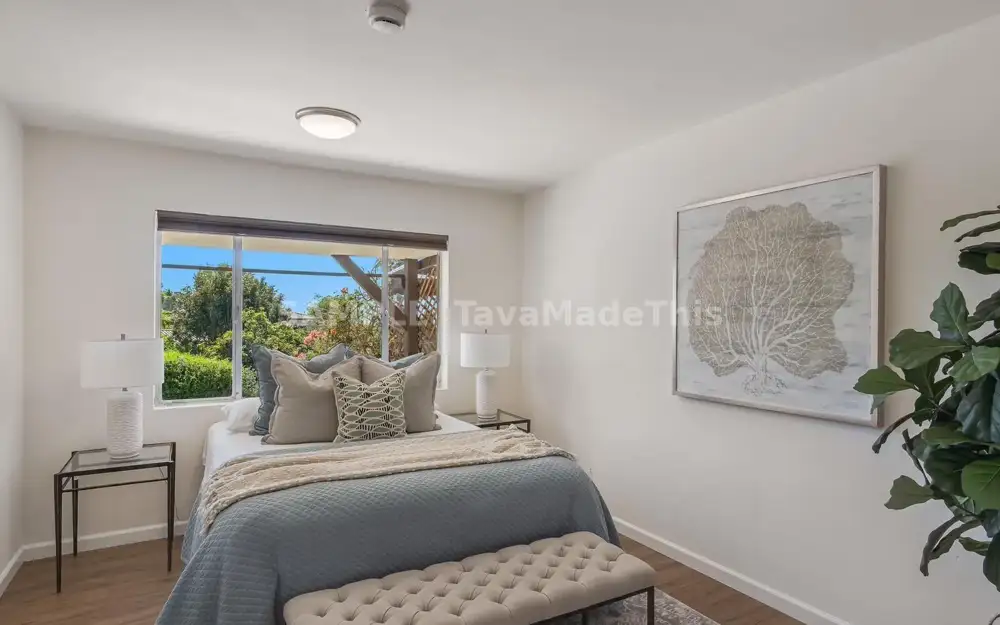
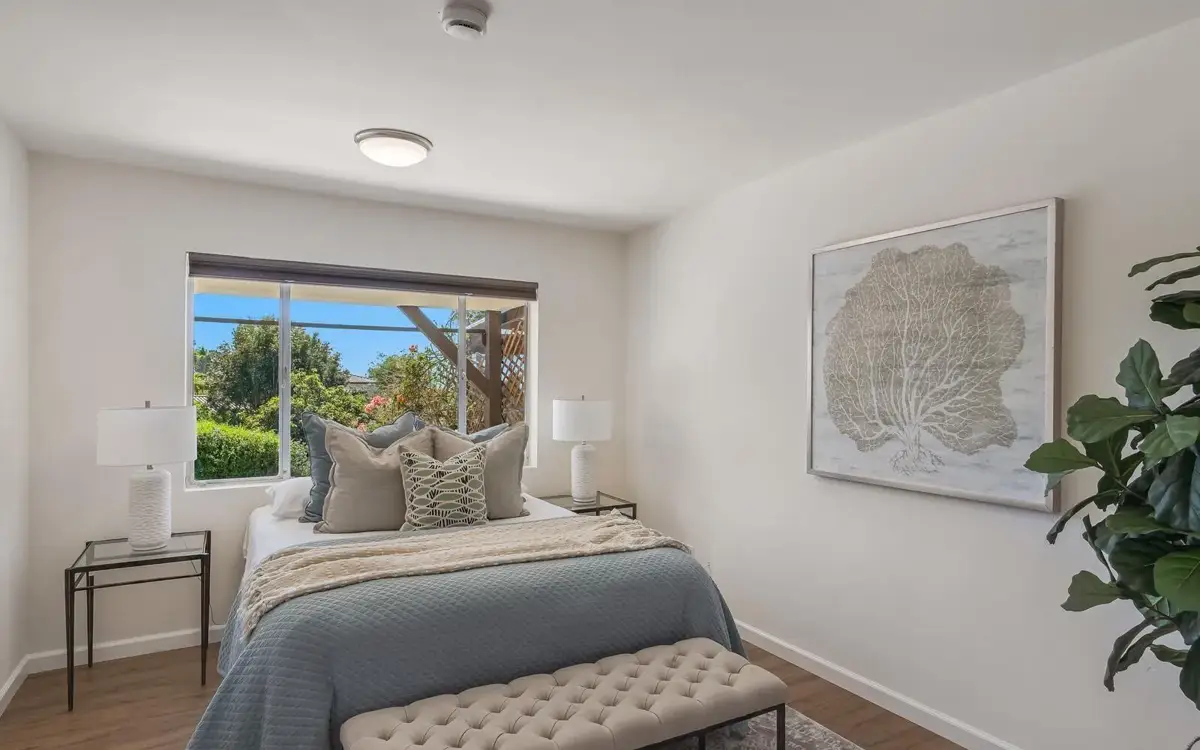
Solana Dr sample: draggable day/night slider with intro, 4K cover, themes, clearer upgrade message
Claude-Session: https://claude.ai/code/session_01E3onAEPM91wKopdy5sCsBR

Changed region(s): [[0.279, 0.456, 0.434, 0.5472], [0.682, 0.4864, 0.744, 0.5168]]

diff --git a/c/solana-k7m2qd/index.html b/c/solana-k7m2qd/index.html
@@ -6,94 +6,174 @@
 <title>1117 Solana Dr | Sample Listing Page</title>
 <meta name="robots" content="noindex, nofollow, noarchive">
 <meta name="description" content="A free sample listing page for 1117 Solana Dr, Del Mar, by TavaMadeThis.">
-<meta name="theme-color" content="#F5F0E7">
+<meta name="theme-color" content="#14110D" id="tc">
 <link rel="icon" type="image/png" sizes="32x32" href="/img/icon-32.png?v=2">
 <link rel="preload" href="/fonts/instrument-serif-normal-3.woff2" as="font" type="font/woff2" crossorigin>
 <link rel="preload" href="/fonts/inter-normal-4.woff2" as="font" type="font/woff2" crossorigin>
+<link rel="preload" as="image" href="img/hero-1600.webp" imagesrcset="img/hero-1600.webp 1600w, img/hero-2560.webp 2560w, img/hero-3840.webp 3840w" imagesizes="100vw">
 <style>
 @font-face{font-family:'Instrument Serif';font-style:normal;font-weight:400;font-display:swap;src:url(/fonts/instrument-serif-normal-3.woff2) format('woff2')}
 @font-face{font-family:'Instrument Serif';font-style:italic;font-weight:400;font-display:swap;src:url(/fonts/instrument-serif-italic-2.woff2) format('woff2')}
 @font-face{font-family:'Inter';font-style:normal;font-weight:300 600;font-display:swap;src:url(/fonts/inter-normal-4.woff2) format('woff2')}
-:root{--cream:#F5F0E7;--paper:#FBF8F2;--ink:#221F1A;--mut:#776E61;--line:rgba(34,31,26,.12);--wood:#A9743B;--night:#0E1522;--serif:'Instrument Serif',Georgia,serif;--sans:Inter,system-ui,-apple-system,sans-serif;--pad:clamp(20px,5vw,72px)}
+:root{--cream:#F5F0E7;--paper:#FBF8F2;--ink:#1D1A15;--mut:#7A7164;--body:#51493E;--line:rgba(29,26,21,.12);--wood:#A9743B;--gold:#D4A468;--night:#0D1420;--deep:#14110D;--deep2:#2A231A;--ondeep:#F5F0E7;--hw:400;--hls:-.015em;--serif:'Instrument Serif',Georgia,serif;--sans:Inter,system-ui,-apple-system,sans-serif;--pad:clamp(20px,5vw,72px);--ease:cubic-bezier(.2,.8,.2,1)}
 *{box-sizing:border-box}
-html{background:var(--cream);-webkit-text-size-adjust:100%}
+html{background:var(--cream);-webkit-text-size-adjust:100%;scroll-behavior:smooth}
+body,.sample,.hero,.facts,.tour,.foot,.up,.dn,.pill,.how,.cmp .tag,.nav a.cta{transition:background-color .5s var(--ease),color .5s var(--ease),border-color .5s var(--ease)}
 body{margin:0;background:var(--cream);color:var(--ink);font:400 16px/1.6 var(--sans);-webkit-font-smoothing:antialiased;overflow-x:clip}
-img,canvas{display:block;max-width:100%;-webkit-user-drag:none;user-select:none;-webkit-user-select:none;-webkit-touch-callout:none}
-h1,h2{font-family:var(--serif);font-weight:400;letter-spacing:-.015em;margin:0}
+img{display:block;max-width:100%;-webkit-user-drag:none;user-select:none;-webkit-user-select:none;-webkit-touch-callout:none}
+h1,h2,h3,.mark,.facts b{font-family:var(--serif);font-weight:var(--hw);letter-spacing:var(--hls);margin:0}
 a{color:inherit}
 .wrap{max-width:1180px;margin:0 auto;padding:0 var(--pad)}
-.sample{background:var(--ink);color:#E9E2D5;font:400 12.5px/1.45 var(--sans);text-align:center;padding:10px var(--pad)}
+:focus-visible{outline:2px solid var(--gold);outline-offset:3px}
+
+/* top notice + nav */
+.sample{background:var(--deep);color:var(--ondeep);font:400 12.5px/1.45 var(--sans);text-align:center;padding:10px var(--pad)}
 .sample b{font-weight:500;color:#fff}
-.hero{position:relative;background:var(--night);color:#fff}
-.hero img{width:100%;height:min(76vh,720px);object-fit:cover}
-.hero .cap{position:absolute;left:0;right:0;bottom:0;padding:90px 0 36px;background:linear-gradient(transparent,rgba(10,12,16,.72))}
-.hero h1{font-size:clamp(40px,7vw,92px);line-height:1}
-.hero p{margin:10px 0 0;font-size:15px;opacity:.85}
-.facts{display:grid;grid-template-columns:repeat(4,1fr);border-bottom:1px solid var(--line);background:var(--paper)}
-.facts div{padding:22px var(--pad) 20px;border-right:1px solid var(--line)}
-.facts div:last-child{border-right:0}
-.facts b{display:block;font:400 clamp(26px,3.4vw,40px)/1 var(--serif)}
-.facts span{display:block;margin-top:6px;font:500 11px/1 var(--sans);letter-spacing:.2em;text-transform:uppercase;color:var(--mut)}
-section{padding:clamp(56px,9vw,110px) 0}
-.eyebrow{margin:0 0 14px;font:500 11px/1 var(--sans);letter-spacing:.24em;text-transform:uppercase;color:var(--mut)}
-h2{font-size:clamp(34px,4.6vw,58px);line-height:1.04}
+.nav{position:absolute;left:0;right:0;top:38px;z-index:5;color:#fff}
+.nav .wrap{display:flex;align-items:center;justify-content:space-between;height:72px}
+.nav .mark{font-size:22px;line-height:1}
+.nav a.cta{display:inline-flex;align-items:center;min-height:40px;padding:0 20px;border:1px solid rgba(255,255,255,.55);border-radius:999px;text-decoration:none;font:500 13px/1 var(--sans);letter-spacing:.02em;backdrop-filter:blur(8px);-webkit-backdrop-filter:blur(8px);background:rgba(255,255,255,.08);transition:background .3s,color .3s}
+.nav a.cta:hover{background:#fff;color:var(--ink)}
+
+/* hero */
+.hero{position:relative;background:#0b0d11;color:#fff;overflow:hidden}
+.hero img{width:100%;height:min(86vh,820px);min-height:520px;object-fit:cover;transform:scale(1.04);animation:settle 2.4s var(--ease) forwards}
+@keyframes settle{to{transform:scale(1)}}
+.hero::after{content:"";position:absolute;inset:0;background:linear-gradient(180deg,rgba(8,10,14,.45) 0,rgba(8,10,14,0) 26%,rgba(8,10,14,0) 52%,rgba(8,10,14,.82) 100%);pointer-events:none}
+.hero .cap{position:absolute;left:0;right:0;bottom:0;z-index:2;padding-bottom:clamp(34px,6vw,64px)}
+.pill{display:inline-flex;align-items:center;gap:8px;font:500 11px/1 var(--sans);letter-spacing:.22em;text-transform:uppercase;padding:9px 14px;border:1px solid rgba(255,255,255,.4);border-radius:999px;background:rgba(255,255,255,.08);backdrop-filter:blur(8px);-webkit-backdrop-filter:blur(8px)}
+.pill i{width:7px;height:7px;border-radius:50%;background:#7ed39a;box-shadow:0 0 0 4px rgba(126,211,154,.22)}
+.hero h1{font-size:clamp(46px,8vw,112px);line-height:.96;margin:18px 0 0}
+.hero p{margin:14px 0 0;font-size:clamp(14px,1.5vw,17px);color:rgba(255,255,255,.86);max-width:56ch}
+.hero .cap > .wrap > *{opacity:0;transform:translateY(14px);animation:rise .9s var(--ease) forwards}
+.hero .cap > .wrap > *:nth-child(1){animation-delay:.2s}.hero .cap > .wrap > *:nth-child(2){animation-delay:.35s}.hero .cap > .wrap > *:nth-child(3){animation-delay:.5s}
+@keyframes rise{to{opacity:1;transform:none}}
+
+/* facts */
+.facts{background:var(--paper);border-bottom:1px solid var(--line)}
+.facts .wrap{display:grid;grid-template-columns:repeat(4,1fr)}
+.facts div{padding:28px 0 26px;padding-left:clamp(0px,2vw,26px);border-left:1px solid var(--line)}
+.facts div:first-child{border-left:0;padding-left:0}
+.facts b{display:block;font:400 clamp(28px,3.6vw,46px)/1 var(--serif)}
+.facts span{display:block;margin-top:9px;font:500 11px/1 var(--sans);letter-spacing:.2em;text-transform:uppercase;color:var(--mut)}
+
+section{padding:clamp(60px,9vw,120px) 0}
+.eyebrow{margin:0 0 16px;display:flex;align-items:center;gap:12px;font:500 11px/1 var(--sans);letter-spacing:.24em;text-transform:uppercase;color:var(--mut)}
+.eyebrow::before{content:"";width:28px;height:1px;background:var(--wood)}
+h2{font-size:clamp(36px,5vw,66px);line-height:1.02}
 h2 em{font-style:italic;color:var(--wood)}
-.lead{max-width:60ch;color:#4d463c;margin:18px 0 0}
-/* day to dusk scroll */
-.dd{height:240vh;padding:0;position:relative;background:var(--night);color:#fff}
-.dd .stick{position:sticky;top:0;height:100vh;display:flex;flex-direction:column;justify-content:center;padding:0 var(--pad)}
-.dd canvas{width:100%;max-width:1180px;margin:0 auto;aspect-ratio:16/9;background:#000;border-radius:6px}
-.dd .t{max-width:1180px;width:100%;margin:0 auto 18px;display:flex;justify-content:space-between;align-items:flex-end;gap:16px}
-.dd h2{font-size:clamp(28px,4vw,48px)}
-.dd small{font:500 11px/1.3 var(--sans);letter-spacing:.2em;text-transform:uppercase;opacity:.7;text-align:right}
-.gal{display:grid;grid-template-columns:repeat(12,1fr);gap:12px;margin-top:34px}
-.gal figure{margin:0;position:relative;overflow:hidden;border-radius:4px;background:var(--line)}
-.gal img{width:100%;height:100%;object-fit:cover;aspect-ratio:8/5;pointer-events:none}
-.gal .a{grid-column:span 7}.gal .b{grid-column:span 5}.gal .c{grid-column:span 5}.gal .d{grid-column:span 7}
-.gal .lock{position:relative;grid-column:span 12;border:1px dashed rgba(34,31,26,.3);border-radius:4px;padding:26px;text-align:center;color:var(--mut);font-size:14px;background:var(--paper)}
-.about{display:grid;grid-template-columns:1.1fr .9fr;gap:clamp(28px,5vw,72px);align-items:start}
+.lead{max-width:58ch;color:var(--body);margin:20px 0 0;font-size:17px}
+.about{display:grid;grid-template-columns:1.1fr .9fr;gap:clamp(30px,6vw,90px);align-items:start}
 .spec{margin:0;padding:0;list-style:none;border-top:1px solid var(--line)}
-.spec li{display:flex;justify-content:space-between;gap:16px;padding:13px 0;border-bottom:1px solid var(--line);font-size:15px}
+.spec li{display:flex;justify-content:space-between;gap:16px;padding:15px 0;border-bottom:1px solid var(--line);font-size:15px}
 .spec li span:first-child{color:var(--mut)}
-.tour{background:var(--ink);color:#F5F0E7}
-.tour h2 em{color:#C99A5E}
-.tour p{color:#cfc7b8}
-.btn{display:inline-flex;align-items:center;justify-content:center;min-height:48px;padding:0 26px;border-radius:999px;background:#F5F0E7;color:var(--ink);text-decoration:none;font:500 14px/1 var(--sans);margin-top:22px}
-.foot{padding:34px 0 46px;font-size:12.5px;color:var(--mut)}
-.foot p{margin:0 0 8px;max-width:78ch}
+.spec li span:last-child{text-align:right}
+
+/* day-night slider */
+.dn{background:var(--night);color:#fff}
+.dn h2 em{color:var(--gold)}
+.dn .eyebrow{color:#a9b2c2}
+.dn .eyebrow::before{background:var(--gold)}
+.dn .head{display:flex;justify-content:space-between;align-items:flex-end;gap:24px;flex-wrap:wrap;margin-bottom:30px}
+.how{display:inline-flex;align-items:center;gap:10px;font:500 13px/1.3 var(--sans);color:#d9dfeb;padding:11px 16px;border-radius:999px;background:rgba(255,255,255,.07);border:1px solid rgba(255,255,255,.16)}
+.how svg{flex:none}
+.cmp{position:relative;aspect-ratio:16/9;border-radius:10px;overflow:hidden;background:#000;box-shadow:0 40px 90px -30px rgba(0,0,0,.7);cursor:ew-resize;touch-action:pan-y;user-select:none;-webkit-user-select:none}
+.cmp img{position:absolute;inset:0;width:100%;height:100%;object-fit:cover;pointer-events:none}
+.cmp .night{clip-path:inset(0 0 0 var(--p,50%))}
+.cmp .tag{position:absolute;bottom:16px;z-index:2;font:500 11px/1 var(--sans);letter-spacing:.2em;text-transform:uppercase;padding:9px 13px;border-radius:999px;background:rgba(10,12,16,.55);color:#fff;backdrop-filter:blur(6px);-webkit-backdrop-filter:blur(6px);pointer-events:none}
+.cmp .tag.l{left:16px}.cmp .tag.r{right:16px}
+.cmp .bar{position:absolute;top:0;bottom:0;left:var(--p,50%);width:2px;margin-left:-1px;background:#fff;box-shadow:0 0 0 1px rgba(0,0,0,.12),0 0 26px rgba(255,255,255,.55);z-index:3;pointer-events:none}
+.cmp .knob{position:absolute;top:50%;left:var(--p,50%);width:58px;height:58px;margin:-29px 0 0 -29px;border-radius:50%;background:#fff;color:var(--ink);display:grid;place-items:center;z-index:4;box-shadow:0 10px 28px rgba(0,0,0,.4);cursor:grab;outline-offset:6px}
+.cmp .knob:active{cursor:grabbing}
+.cmp .knob svg{display:block}
+.cmp .knob::before{content:"";position:absolute;inset:-9px;border-radius:50%;border:2px solid rgba(255,255,255,.7);opacity:0}
+.cmp.hint .knob::before{animation:ring 1.8s ease-out infinite}
+@keyframes ring{0%{transform:scale(.8);opacity:.9}100%{transform:scale(1.5);opacity:0}}
+.cmp .tip{position:absolute;left:var(--p,50%);top:calc(50% + 46px);transform:translateX(-50%);z-index:4;white-space:nowrap;font:500 12px/1 var(--sans);letter-spacing:.04em;padding:9px 13px;border-radius:999px;background:#fff;color:var(--ink);box-shadow:0 8px 20px rgba(0,0,0,.3);pointer-events:none;transition:opacity .4s}
+.cmp.used .tip{opacity:0}
+.dn .note{margin:18px 0 0;font-size:13px;color:#98a2b5}
+
+/* gallery */
+.gal{display:grid;grid-template-columns:repeat(12,1fr);gap:14px;margin-top:36px}
+.gal figure{margin:0;overflow:hidden;border-radius:6px;background:var(--line)}
+.gal img{width:100%;height:100%;object-fit:cover;aspect-ratio:3/2;pointer-events:none;transition:transform 1.2s var(--ease)}
+.gal figure:hover img{transform:scale(1.03)}
+.gal .a{grid-column:span 7}.gal .b{grid-column:span 5}.gal .c{grid-column:span 5}.gal .d{grid-column:span 7}
+
+/* upgrade message */
+.up{margin-top:22px;position:relative;border-radius:10px;padding:clamp(26px,4vw,44px);background:linear-gradient(135deg,var(--deep) 0,var(--deep2) 100%);color:var(--ondeep);overflow:hidden}
+.up::before{content:"";position:absolute;right:-80px;top:-80px;width:280px;height:280px;border-radius:50%;background:radial-gradient(circle,rgba(212,164,104,.35),rgba(212,164,104,0) 70%)}
+.up .tagline{position:relative;display:inline-flex;align-items:center;gap:8px;font:500 11px/1 var(--sans);letter-spacing:.22em;text-transform:uppercase;color:var(--gold)}
+.up h3{position:relative;margin:14px 0 0;font-size:clamp(28px,3.6vw,44px);line-height:1.08}
+.up h3 em{font-style:italic;color:var(--gold)}
+.up ul{position:relative;list-style:none;padding:0;margin:22px 0 0;display:grid;grid-template-columns:1fr 1fr;gap:12px 28px;font-size:15px;color:#E4DCCD}
+.up li{display:flex;gap:11px;align-items:flex-start}
+.up li svg{flex:none;margin-top:3px;color:var(--gold)}
+
+/* tour */
+.tour{background:var(--deep);color:var(--ondeep);text-align:center}
+.tour .eyebrow{justify-content:center;color:#b3aa99}
+.tour h2 em{color:var(--gold)}
+.tour p{color:#cfc6b6;margin:18px auto 0;max-width:52ch}
+.btn{display:inline-flex;align-items:center;justify-content:center;min-height:52px;padding:0 30px;border-radius:999px;background:var(--ondeep);color:var(--deep);text-decoration:none;font:500 14px/1 var(--sans);margin-top:28px;transition:transform .3s var(--ease),background .3s}
+.btn:hover{transform:translateY(-2px);filter:brightness(1.08)}
+.foot{padding:34px 0 46px;font-size:12.5px;color:var(--mut);background:var(--cream)}
+.foot p{margin:0 0 8px;max-width:80ch}
+
+
+/* themes */
+html[data-theme="midnight"]{--cream:#0F1319;--paper:#151B23;--ink:#EEF1F6;--mut:#8D97A8;--body:#B6BFCE;--line:rgba(238,241,246,.12);--wood:#7FB2FF;--gold:#9CC4FF;--night:#070A10;--deep:#0A0D13;--deep2:#17202C;--ondeep:#EEF1F6}
+html[data-theme="modern"]{--cream:#FFFFFF;--paper:#F6F6F4;--ink:#111111;--mut:#6B6B6B;--body:#3B3B3B;--line:rgba(17,17,17,.12);--wood:#111111;--gold:#E4572E;--night:#111111;--deep:#111111;--deep2:#242424;--ondeep:#FFFFFF;--serif:Inter,system-ui,sans-serif;--hw:500;--hls:-.035em}
+html[data-theme="modern"] h2 em,html[data-theme="modern"] h1 em,html[data-theme="modern"] h3 em{font-style:normal}
+html[data-theme="modern"] .hero h1{font-size:clamp(40px,7vw,96px);letter-spacing:-.045em}
+html[data-theme="sage"]{--cream:#EEF1EA;--paper:#F6F8F2;--ink:#1B241E;--mut:#6B7A6E;--body:#43524A;--line:rgba(27,36,30,.13);--wood:#4F7A5E;--gold:#B7D3A8;--night:#13201A;--deep:#16221B;--deep2:#233A2D;--ondeep:#EEF4EA}
+.themes{position:fixed;right:max(14px,env(safe-area-inset-right));bottom:max(14px,env(safe-area-inset-bottom));z-index:50;display:flex;align-items:center;gap:6px;padding:7px 9px 7px 14px;border-radius:999px;background:rgba(255,255,255,.92);color:#111;box-shadow:0 10px 30px rgba(0,0,0,.28);backdrop-filter:blur(10px);-webkit-backdrop-filter:blur(10px);font:500 11px/1 var(--sans);letter-spacing:.14em;text-transform:uppercase}
+.themes span{margin-right:4px}
+.themes button{width:30px;height:30px;border-radius:50%;border:2px solid transparent;padding:0;cursor:pointer;background:var(--c);box-shadow:inset 0 0 0 1px rgba(0,0,0,.18);transition:transform .25s var(--ease)}
+.themes button:hover{transform:scale(1.1)}
+.themes button[aria-pressed="true"]{border-color:#111;box-shadow:0 0 0 2px #fff,inset 0 0 0 1px rgba(0,0,0,.18)}
+@media(max-width:760px){.themes{left:12px;right:12px;justify-content:center;bottom:12px}}
+
 @media(max-width:760px){
- .facts{grid-template-columns:repeat(2,1fr)}.facts div:nth-child(2){border-right:0}.facts div:nth-child(-n+2){border-bottom:1px solid var(--line)}
+ .nav{top:46px}
+ .facts .wrap{grid-template-columns:repeat(2,1fr)}
+ .facts div:nth-child(3){border-left:0;padding-left:0}
+ .facts div:nth-child(n+3){border-top:1px solid var(--line)}
  .about{grid-template-columns:1fr}
  .gal .a,.gal .b,.gal .c,.gal .d{grid-column:span 12}
- .dd .t{flex-direction:column;align-items:flex-start;margin-bottom:12px}.dd small{text-align:left}
+ .up ul{grid-template-columns:1fr}
+ .cmp .knob{width:52px;height:52px;margin:-26px 0 0 -26px}
+ .cmp .tag{bottom:10px;font-size:10px;padding:8px 10px}.cmp .tag.l{left:10px}.cmp .tag.r{right:10px}
 }
-@media(prefers-reduced-motion:reduce){.dd{height:auto}.dd .stick{position:static;height:auto;padding:40px var(--pad)}}
+@media(prefers-reduced-motion:reduce){.hero img{animation:none;transform:none}.hero .cap > .wrap > *{animation:none;opacity:1;transform:none}.cmp.hint .knob::before{animation:none}}
 </style>
 </head>
 <body oncontextmenu="return false">
-<div class="sample"><b>Free sample by TavaMadeThis</b> &middot; made without any request, using the public listing for 1117 Solana Dr. Not affiliated with the listing agent or brokerage. Private link.</div>
+<div class="sample"><b>Free sample by TavaMadeThis</b> &middot; made without any request, from the public listing for 1117 Solana Dr. Not affiliated with the listing agent or brokerage. Private link.</div>
 
 <header class="hero">
-  <img src="img/hero-src.jpg" alt="Front of 1117 Solana Dr" width="1600" height="900" fetchpriority="high">
+  <nav class="nav"><div class="wrap"><span class="mark">TavaMadeThis</span><a class="cta" href="#tour">Request a tour</a></div></nav>
+  <img src="img/hero-1600.webp" srcset="img/hero-1600.webp 1600w, img/hero-2560.webp 2560w, img/hero-3840.webp 3840w" sizes="100vw" alt="Front of 1117 Solana Dr, Del Mar" width="3840" height="2160" fetchpriority="high">
   <div class="cap"><div class="wrap">
+    <span class="pill"><i></i>Active listing</span>
     <h1>1117 Solana Drive</h1>
     <p>Del Mar, California 92014 &middot; Listed by Christie Horn, Berkshire Hathaway HomeServices</p>
   </div></div>
 </header>
 
-<div class="facts">
+<div class="facts"><div class="wrap">
   <div><b>$2,875,000</b><span>List price</span></div>
   <div><b>4 &middot; 3</b><span>Beds &middot; baths</span></div>
   <div><b>2,171</b><span>Sq ft</span></div>
   <div><b>30,056</b><span>Lot sq ft</span></div>
-</div>
+</div></div>
 
 <section>
   <div class="wrap about">
     <div>
       <p class="eyebrow">The home</p>
-      <h2>Mid-century lines, <em>wood beams</em>, a lot with room.</h2>
-      <p class="lead">A 1950 single-level-feel home with exposed wood beams, a built-in fireplace wall, refinished hardwood and a blue-tile bath, set on more than 30,000 square feet in Del Mar. This page is one clean link a buyer can open from a text or an Instagram bio.</p>
+      <h2>Mid-century lines, <em>exposed beams</em>, and a lot with room to breathe.</h2>
+      <p class="lead">Built in 1950 and set on more than 30,000 square feet in Del Mar, the home pairs exposed wood beams and a built-in fireplace wall with refinished hardwood floors and a blue-tile bath. One clean link a buyer can open from a text, an email or an Instagram bio.</p>
     </div>
     <ul class="spec">
       <li><span>Status</span><span>Active</span></li>
@@ -105,10 +185,30 @@ h2 em{font-style:italic;color:var(--wood)}
   </div>
 </section>
 
-<section class="dd" id="dd" aria-label="Day to dusk">
-  <div class="stick">
-    <div class="t"><h2>From afternoon to <em style="color:#C99A5E">dusk</em></h2><small>Scroll to change the light<br>AI-generated preview</small></div>
-    <canvas id="cv" width="1280" height="720" role="img" aria-label="1117 Solana Dr from day to dusk"></canvas>
+<section class="dn">
+  <div class="wrap">
+    <div class="head">
+      <div>
+        <p class="eyebrow">Day to night</p>
+        <h2>See it in <em>every light</em></h2>
+      </div>
+      <div class="how" aria-hidden="true">
+        <svg width="22" height="22" viewBox="0 0 24 24" fill="none" stroke="currentColor" stroke-width="1.8" stroke-linecap="round" stroke-linejoin="round"><path d="M9 11V5.5a1.5 1.5 0 0 1 3 0V10"/><path d="M12 10V8.5a1.5 1.5 0 0 1 3 0V11"/><path d="M15 11v-.5a1.5 1.5 0 0 1 3 0V15a6 6 0 0 1-6 6h-1.2a6 6 0 0 1-4.8-2.4L3.6 15.2a1.6 1.6 0 0 1 2.5-2L9 16"/></svg>
+        Drag the handle left or right to turn day into night
+      </div>
+    </div>
+
+    <div class="cmp hint" id="cmp">
+      <img class="day" src="img/f01.webp" alt="1117 Solana Dr in the afternoon" draggable="false">
+      <img class="night" src="img/f25.webp" alt="1117 Solana Dr at night, lit from within" draggable="false">
+      <span class="tag l">Day</span><span class="tag r">Night</span>
+      <div class="bar"></div>
+      <div class="tip">Drag me</div>
+      <div class="knob" id="knob" role="slider" tabindex="0" aria-label="Day to night" aria-valuemin="0" aria-valuemax="100" aria-valuenow="50">
+        <svg width="26" height="26" viewBox="0 0 24 24" fill="none" stroke="currentColor" stroke-width="2" stroke-linecap="round" stroke-linejoin="round"><path d="M8 7l-5 5 5 5"/><path d="M16 7l5 5-5 5"/></svg>
+      </div>
+    </div>
+    <p class="note">The night view is an AI-generated preview of the exterior, not a photograph.</p>
   </div>
 </section>
 
@@ -121,34 +221,79 @@ h2 em{font-style:italic;color:var(--wood)}
       <figure class="b"><img src="img/fireplace.webp" alt="Fireplace wall" loading="lazy" draggable="false"></figure>
       <figure class="c"><img src="img/bath.webp" alt="Blue tile bath" loading="lazy" draggable="false"></figure>
       <figure class="d"><img src="img/bedroom.webp" alt="Bedroom" loading="lazy" draggable="false"></figure>
-      <div class="lock">This sample shows 4 photos. The full page carries every listing photo in full resolution, plus the film and the full gallery slider.</div>
     </div>
+
+    <aside class="up" aria-label="What the full page includes">
+      <span class="tagline"><svg width="14" height="14" viewBox="0 0 24 24" fill="none" stroke="currentColor" stroke-width="2" stroke-linecap="round" stroke-linejoin="round"><rect x="4" y="11" width="16" height="10" rx="2"/><path d="M8 11V7a4 4 0 0 1 8 0v4"/></svg>This is a 4-photo preview</span>
+      <h3>The full page shows <em>every photo</em>, at full resolution.</h3>
+      <ul>
+        <li><svg width="16" height="16" viewBox="0 0 24 24" fill="none" stroke="currentColor" stroke-width="2.4" stroke-linecap="round" stroke-linejoin="round"><path d="M5 12.5l4.5 4.5L19 7.5"/></svg>Every listing photo in full resolution</li>
+        <li><svg width="16" height="16" viewBox="0 0 24 24" fill="none" stroke="currentColor" stroke-width="2.4" stroke-linecap="round" stroke-linejoin="round"><path d="M5 12.5l4.5 4.5L19 7.5"/></svg>The complete gallery, swipe and full screen</li>
+        <li><svg width="16" height="16" viewBox="0 0 24 24" fill="none" stroke="currentColor" stroke-width="2.4" stroke-linecap="round" stroke-linejoin="round"><path d="M5 12.5l4.5 4.5L19 7.5"/></svg>The day-to-night slider, on your own photo</li>
+        <li><svg width="16" height="16" viewBox="0 0 24 24" fill="none" stroke="currentColor" stroke-width="2.4" stroke-linecap="round" stroke-linejoin="round"><path d="M5 12.5l4.5 4.5L19 7.5"/></svg>A tour button that goes straight to your phone</li>
+        <li><svg width="16" height="16" viewBox="0 0 24 24" fill="none" stroke="currentColor" stroke-width="2.4" stroke-linecap="round" stroke-linejoin="round"><path d="M5 12.5l4.5 4.5L19 7.5"/></svg>Optional short listing film</li>
+        <li><svg width="16" height="16" viewBox="0 0 24 24" fill="none" stroke="currentColor" stroke-width="2.4" stroke-linecap="round" stroke-linejoin="round"><path d="M5 12.5l4.5 4.5L19 7.5"/></svg>Your name, photo and contact details</li>
+      </ul>
+    </aside>
   </div>
 </section>
 
-<section class="tour">
+<section class="tour" id="tour">
   <div class="wrap">
-    <p class="eyebrow" style="color:#b9b09f">Request a tour</p>
+    <p class="eyebrow">Request a tour</p>
     <h2>See it <em>in person</em></h2>
-    <p class="lead">In the full version this button goes straight to the agent: a call, a text, or an email they choose.</p>
+    <p>On the full page this button goes straight to the agent: a call, a text, or an email, their choice. In this sample it just sends me a note.</p>
     <a class="btn" href="mailto:tavamvalenti@gmail.com?subject=About%20the%201117%20Solana%20Dr%20sample%20page">Ask about this sample</a>
   </div>
 </section>
 
 <footer class="foot"><div class="wrap">
   <p>This is a free sample made by Tava Valenti (TavaMadeThis) to show what a single-listing page could look like. It was made without being asked and is not affiliated with Christie Horn, Berkshire Hathaway HomeServices or the seller. Listing details come from public listing pages and may be out of date.</p>
-  <p>The dusk view is an AI-generated preview of the home's exterior, not a photograph. Photos are low-resolution and watermarked. The full page uses the agent's full-resolution originals.</p>
+  <p>The cover photo is enhanced to higher resolution with AI, and the night view is an AI-generated preview. Gallery photos are reduced in size for this preview.</p>
 </div></footer>
 
+<div class="themes" role="group" aria-label="Page theme"><span>Theme</span>
+  <button type="button" data-t="coastal" style="--c:linear-gradient(135deg,#F5F0E7 50%,#A9743B 50%)" aria-label="Coastal cream" title="Coastal cream" aria-pressed="true"></button>
+  <button type="button" data-t="midnight" style="--c:linear-gradient(135deg,#0F1319 50%,#7FB2FF 50%)" aria-label="Midnight" title="Midnight" aria-pressed="false"></button>
+  <button type="button" data-t="modern" style="--c:linear-gradient(135deg,#FFFFFF 50%,#E4572E 50%)" aria-label="Modern" title="Modern" aria-pressed="false"></button>
+  <button type="button" data-t="sage" style="--c:linear-gradient(135deg,#EEF1EA 50%,#4F7A5E 50%)" aria-label="Sage" title="Sage" aria-pressed="false"></button>
+</div>
 <script>
 (function(){
-  var N=25,cv=document.getElementById('cv'),ctx=cv.getContext('2d'),sec=document.getElementById('dd'),imgs=[],cur=-1,loaded=0;
-  function draw(i){if(i===cur||!imgs[i]||!imgs[i].complete)return;cur=i;ctx.drawImage(imgs[i],0,0,cv.width,cv.height)}
-  function progress(){var r=sec.getBoundingClientRect(),h=sec.offsetHeight-innerHeight;return h>0?Math.min(1,Math.max(0,-r.top/h)):0}
-  function upd(){draw(Math.round(progress()*(N-1)))}
-  for(var i=0;i<N;i++){(function(i){var im=new Image();im.src='img/f'+String(i+1).padStart(2,'0')+'.webp';im.onload=function(){loaded++;if(i===0){cur=-1;draw(0)}upd()};imgs.push(im)})(i)}
-  var t=false;addEventListener('scroll',function(){if(!t){t=true;requestAnimationFrame(function(){t=false;upd()})}},{passive:true});
-  addEventListener('resize',upd);
+  var box=document.getElementById('cmp'),knob=document.getElementById('knob'),pos=50,used=false,raf=0,reduce=matchMedia('(prefers-reduced-motion: reduce)').matches;
+  function set(v){pos=Math.max(0,Math.min(100,v));box.style.setProperty('--p',pos+'%');knob.setAttribute('aria-valuenow',Math.round(pos))}
+  function stopHint(){if(used)return;used=true;cancelAnimationFrame(raf);box.classList.remove('hint');box.classList.add('used')}
+  function fromEvent(e){var r=box.getBoundingClientRect();set((e.clientX-r.left)/r.width*100)}
+  var drag=false;
+  box.addEventListener('pointerdown',function(e){stopHint();drag=true;try{box.setPointerCapture(e.pointerId)}catch(_){}fromEvent(e)});
+  box.addEventListener('pointermove',function(e){if(drag)fromEvent(e)});
+  function end(){drag=false}
+  box.addEventListener('pointerup',end);box.addEventListener('pointercancel',end);
+  knob.addEventListener('keydown',function(e){var s=e.shiftKey?15:5;if(e.key==='ArrowLeft'||e.key==='ArrowDown'){stopHint();set(pos-s);e.preventDefault()}else if(e.key==='ArrowRight'||e.key==='ArrowUp'){stopHint();set(pos+s);e.preventDefault()}else if(e.key==='Home'){stopHint();set(0)}else if(e.key==='End'){stopHint();set(100)}});
+  // intro: the handle sweeps across once so people know to grab it
+  function ease(t){return t<.5?2*t*t:1-Math.pow(-2*t+2,2)/2}
+  function intro(){
+    if(used||reduce)return;
+    var path=[[50,84,900],[84,16,1500],[16,50,900]],i=0,t0=performance.now();
+    function step(now){
+      if(used)return;
+      var seg=path[i],t=Math.min(1,(now-t0)/seg[2]);
+      set(seg[0]+(seg[1]-seg[0])*ease(t));
+      if(t>=1){i++;t0=now;if(i>=path.length)return}
+      raf=requestAnimationFrame(step);
+    }
+    raf=requestAnimationFrame(step);
+  }
+  if('IntersectionObserver' in window){
+    var io=new IntersectionObserver(function(en){if(en[0].isIntersecting){io.disconnect();setTimeout(intro,350)}},{threshold:.55});io.observe(box);
+  }else{intro()}
+
+  // theme picker
+  var tcols={coastal:'#14110D',midnight:'#0A0D13',modern:'#111111',sage:'#16221B'},btns=document.querySelectorAll('.themes button');
+  function theme(t){document.documentElement.setAttribute('data-theme',t);for(var i=0;i<btns.length;i++)btns[i].setAttribute('aria-pressed',btns[i].getAttribute('data-t')===t?'true':'false');var m=document.getElementById('tc');if(m)m.setAttribute('content',tcols[t]);try{localStorage.setItem('sample-theme',t)}catch(_){}}
+  for(var k=0;k<btns.length;k++)btns[k].addEventListener('click',function(){theme(this.getAttribute('data-t'))});
+  try{var sv=localStorage.getItem('sample-theme');if(sv&&tcols[sv])theme(sv)}catch(_){}
+  set(50);
   document.addEventListener('dragstart',function(e){e.preventDefault()});
 })();
 </script>
